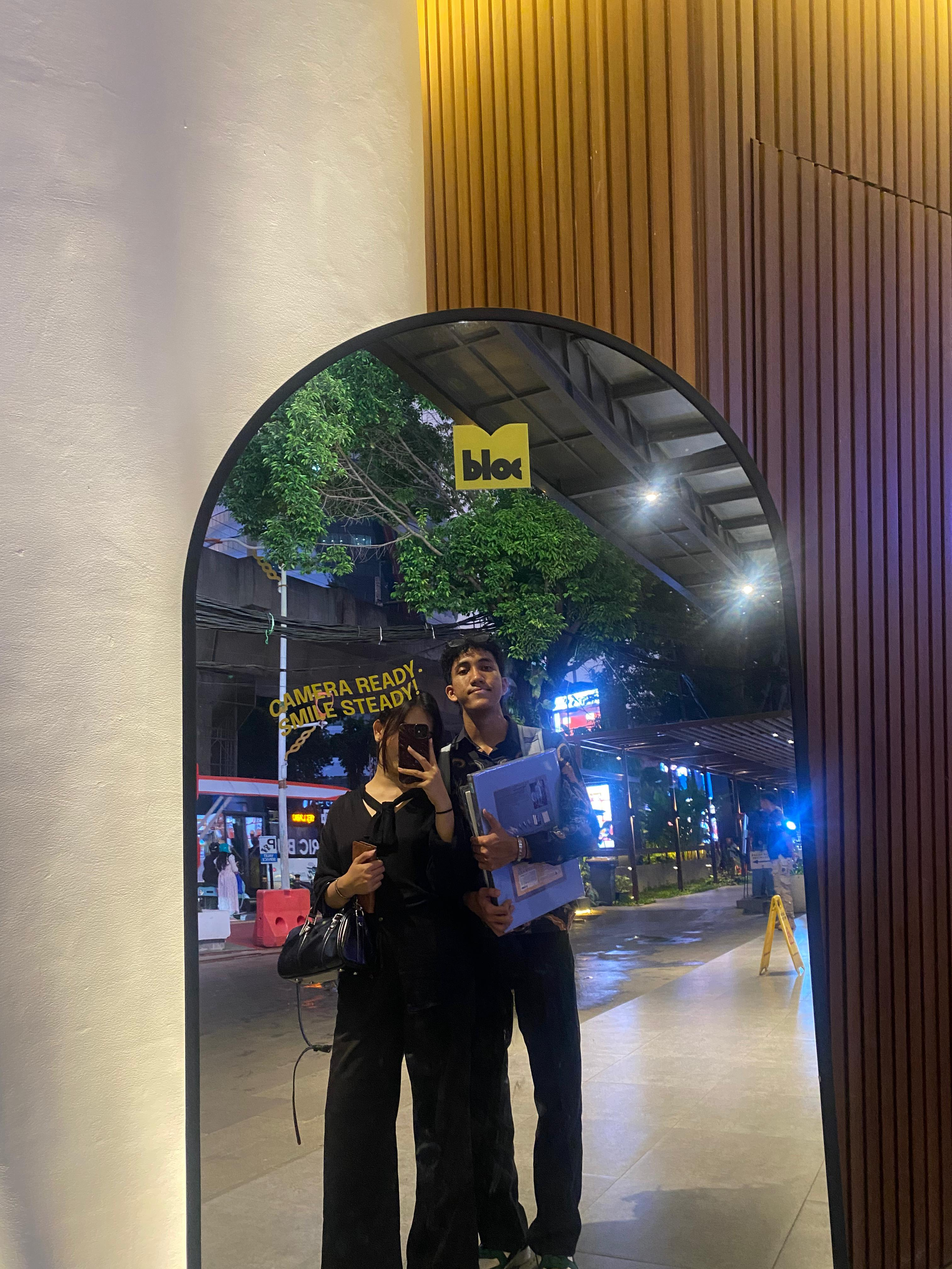
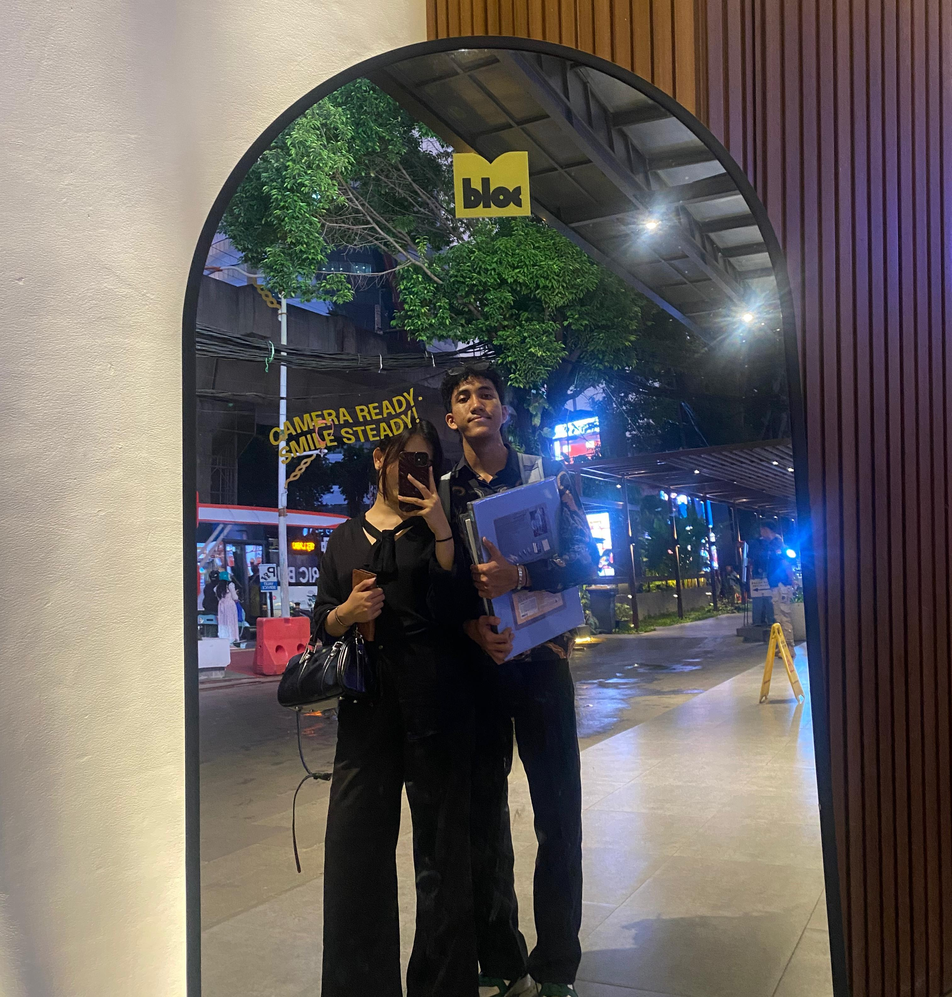
fixing

diff --git a/index.html b/index.html
@@ -45,7 +45,9 @@
     .story-copy p{line-height:1.9}
     .chat{max-width:470px;margin:auto}
     .chat-title{text-align:center;font-family:"Patrick Hand";font-size:27px;color:var(--rose);margin-bottom:18px}
-    .bubble{background:white;border:1px solid var(--line);padding:15px 18px;border-radius:18px 18px 18px 5px;box-shadow:0 10px 25px rgba(65,37,30,.07);margin:13px 0;opacity:0;transform:translateY(16px);transition:.6s}
+    .bubble{background:white;border:1px solid var(--line);padding:15px 18px;border-radius:18px 18px 18px 5px;box-shadow:0 10px 25px rgba(65,37,30,.07);margin:13px 0;opacity:0;transform:translateY(16px);transition:
+    opacity 1s ease,
+    transform 1s cubic-bezier(.22,1,.36,1);}
     .bubble.show{opacity:1;transform:none}
     .bubble.me{margin-left:35px;border-radius:18px 18px 5px 18px;background:#f7e1e4}
     .bubble small{display:block;font-size:11px;opacity:.55;margin-bottom:4px}
@@ -2320,6 +2322,76 @@ body.website-unlocked{
   object-position:center 35%;
 }
 
+/* =========================================
+   STEP 4 — OUR LITTLE STORY
+   MOBILE RESPONSIVE FIX
+========================================= */
+
+.memory-card{
+  box-sizing:border-box;
+  width:330px;
+  max-width:100%;
+}
+
+.memory-card .birthday-photo{
+  display:block;
+  width:100%;
+  height:220px;
+  object-fit:cover;
+  object-position:center;
+  box-sizing:border-box;
+}
+
+@media(max-width:760px){
+
+  .memory-card{
+    display:block;
+    width:100%;
+    max-width:100%;
+    margin-left:0;
+    margin-right:0;
+    box-sizing:border-box;
+  }
+
+  .memory-card .birthday-photo{
+    display:block;
+    width:100%;
+    height:205px;
+    object-fit:cover;
+    object-position:center;
+  }
+
+  .memory-card figcaption{
+    font-size:21px;
+    line-height:1.25;
+    padding-top:8px;
+  }
+
+}
+
+/* =========================================
+   STEP 4 — FIRST MEMORY PHOTO
+========================================= */
+
+.first-memory-photo .birthday-photo{
+  width:100%;
+  height:320px;
+  object-fit:cover;
+  object-position:center 42%;
+  display:block;
+}
+
+@media(max-width:760px){
+
+  .first-memory-photo .birthday-photo{
+    width:100%;
+    height:210px;
+    object-fit:cover;
+    object-position:center 42%;
+  }
+
+}
+
 </style>
 </head>
 <body class="website-locked">
@@ -2450,7 +2522,7 @@ body.website-unlocked{
             <div class="memory-number">01 · THE BEGINNING</div>
             <h3>We Met</h3>
             <p>Two people meeting as friends at <b>Maritim Muda Nusantara</b>, with no idea what the story would become.</p>
-            <figure class="memory-card">
+            <figure class="memory-card first-memory-photo">
               
               <img class="birthday-photo" src="images/foto-maritim.jpeg"  alt="Diyan ♡">
 
@@ -2561,17 +2633,36 @@ body.website-unlocked{
 });
 
     const observer = new IntersectionObserver(entries => {
-      entries.forEach(entry => {
-        if(entry.isIntersecting){
-          entry.target.querySelectorAll('.bubble').forEach((b,i) => {
-            setTimeout(()=>b.classList.add('show'), i*420);
-          });
-          entry.target.querySelectorAll('.memory').forEach((m,i) => {
-            setTimeout(()=>m.classList.add('visible'), i*180);
-          });
-        }
+
+  entries.forEach(entry => {
+
+    if(entry.isIntersecting){
+
+      entry.target.querySelectorAll('.bubble').forEach((b,i) => {
+
+        setTimeout(() => {
+          b.classList.add('show');
+        }, 800 + (i * 750));
+
       });
-    }, {threshold:.18});
+
+      entry.target.querySelectorAll('.memory').forEach((m,i) => {
+
+        setTimeout(() => {
+          m.classList.add('visible');
+        }, i * 180);
+
+      });
+
+      observer.unobserve(entry.target);
+
+    }
+
+  });
+
+}, {
+  threshold:0.35
+});
 
     observer.observe(story);
     observer.observe(memories);
